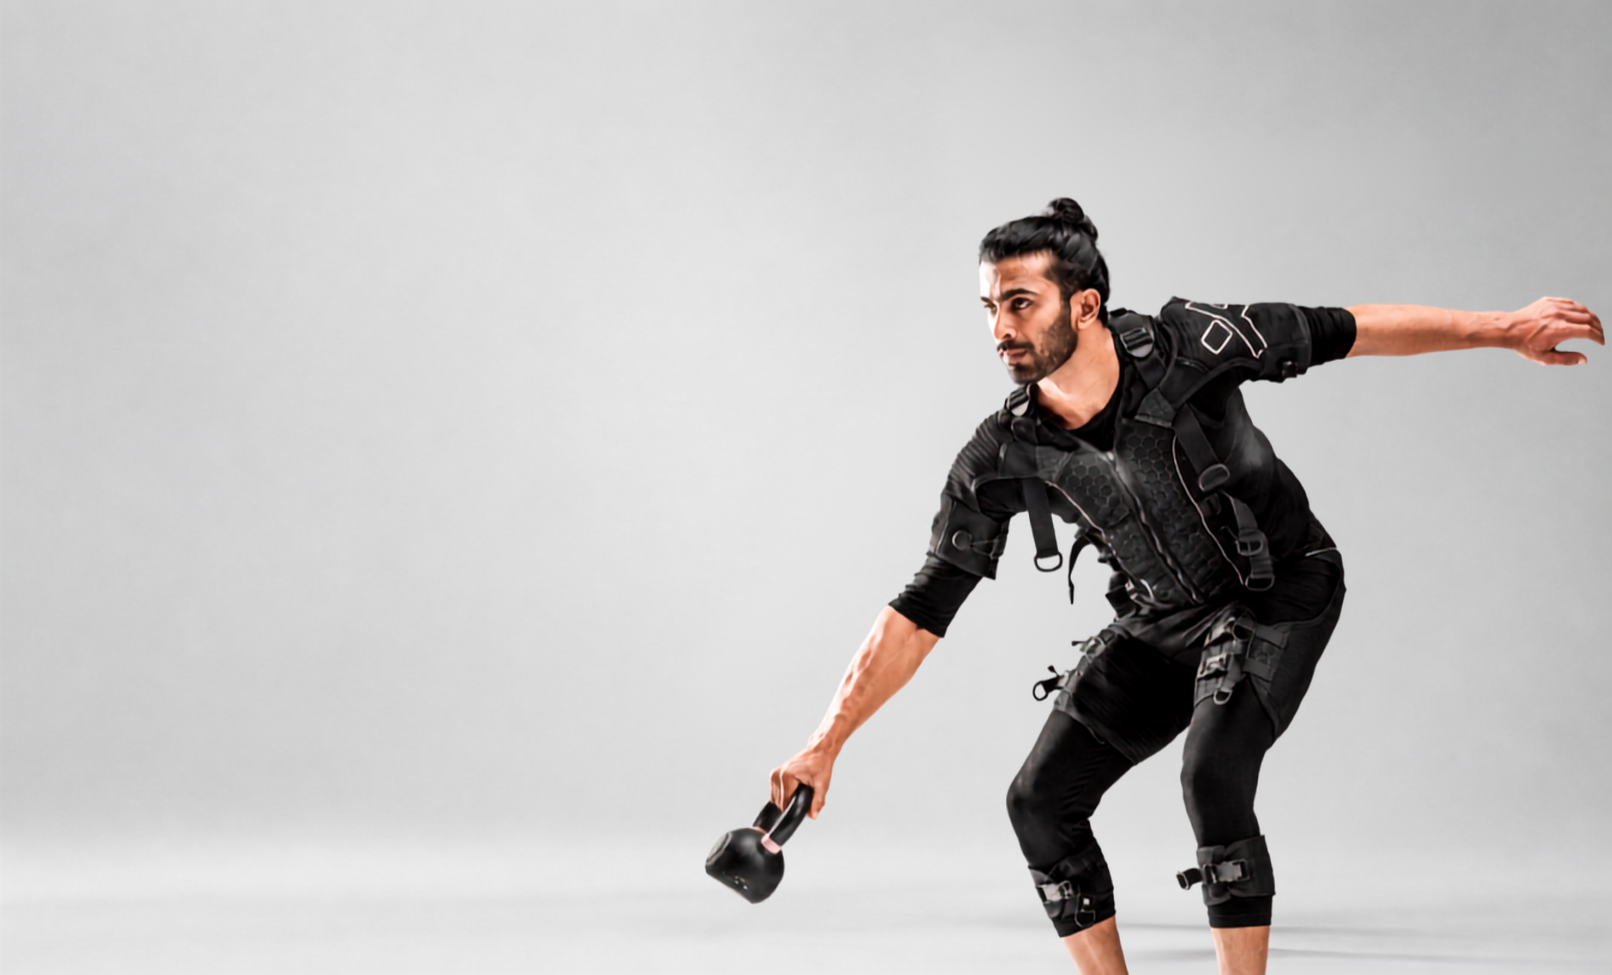
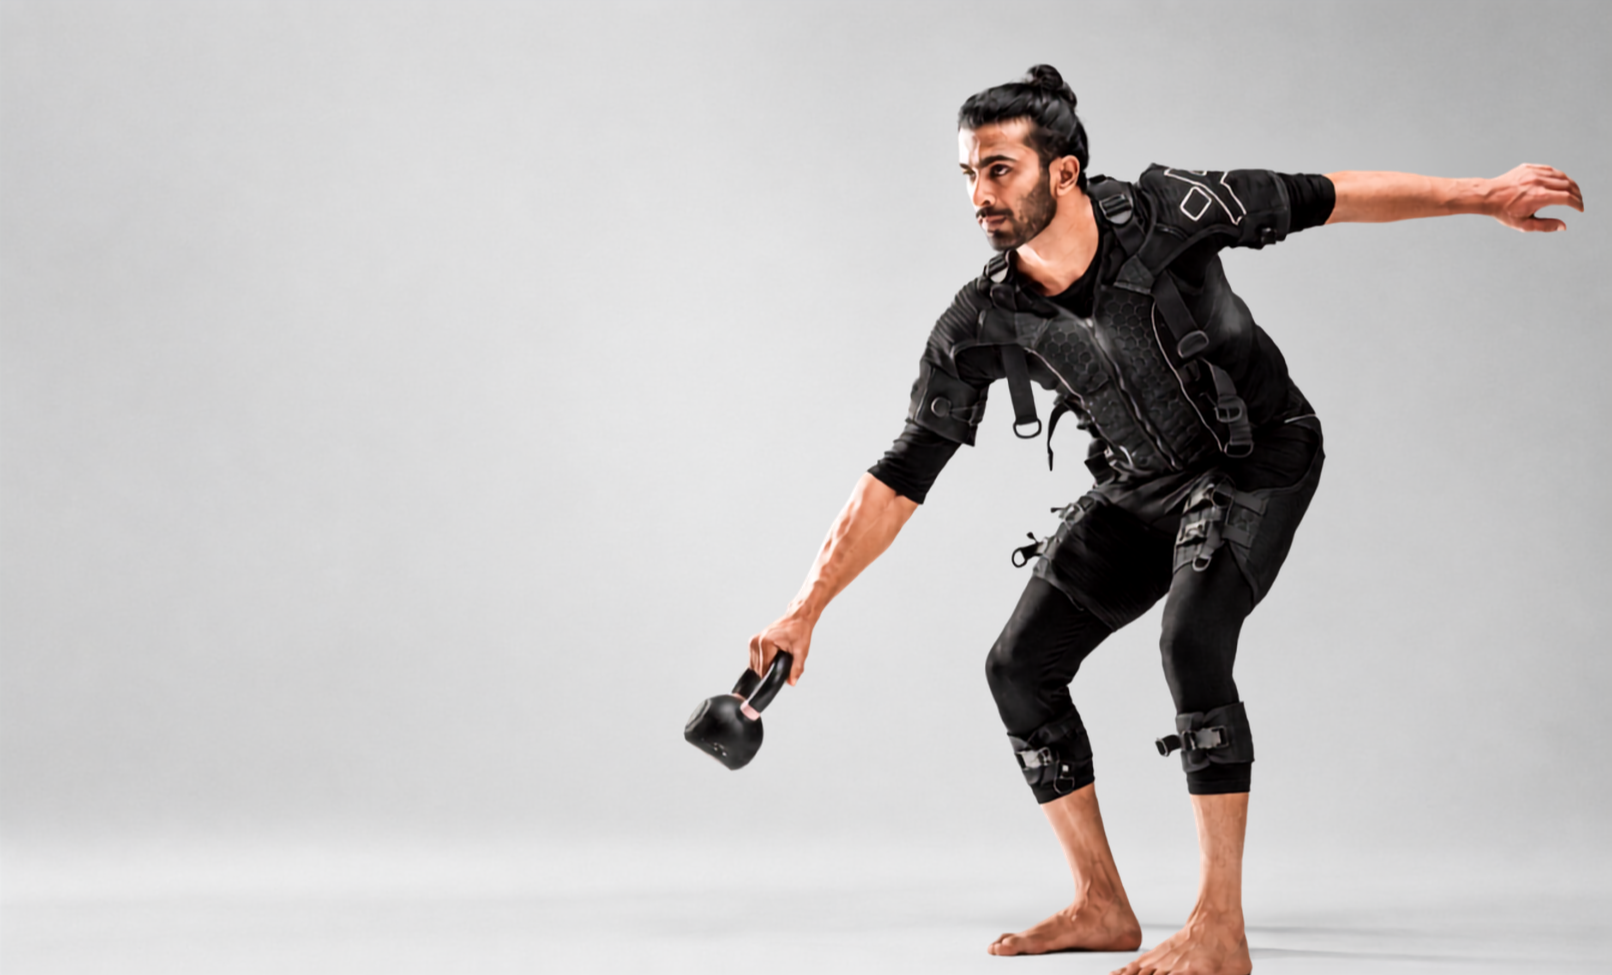
Changes

Changed region(s): [[0.4032, 0.0615, 1.0, 1.0]]

diff --git a/app/page.jsx b/app/page.jsx
@@ -222,7 +222,7 @@ export default function HomePage() {
             <div className="hidden min-[900px]:col-[3] min-[900px]:flex min-[900px]:items-center min-[900px]:justify-self-end">
               <a
                 href="#"
-                className="inline-flex min-h-[2.5rem] items-center justify-center whitespace-nowrap rounded-full border border-[#e8fb76] bg-[#e8fb76] px-[1.05rem] py-[0.42rem] text-[0.76rem] font-bold tracking-[0.08em] text-[#111]"
+                className="inline-flex min-h-[2.2rem] items-center justify-center whitespace-nowrap rounded-full border border-[#e8fb76] bg-[#e8fb76] px-[0.92rem] py-[0.34rem] text-[0.7rem] font-bold tracking-[0.08em] text-[#111]"
                 onClick={() => setIsMobileMenuOpen(false)}
               >
                 BOOK A TRIAL
